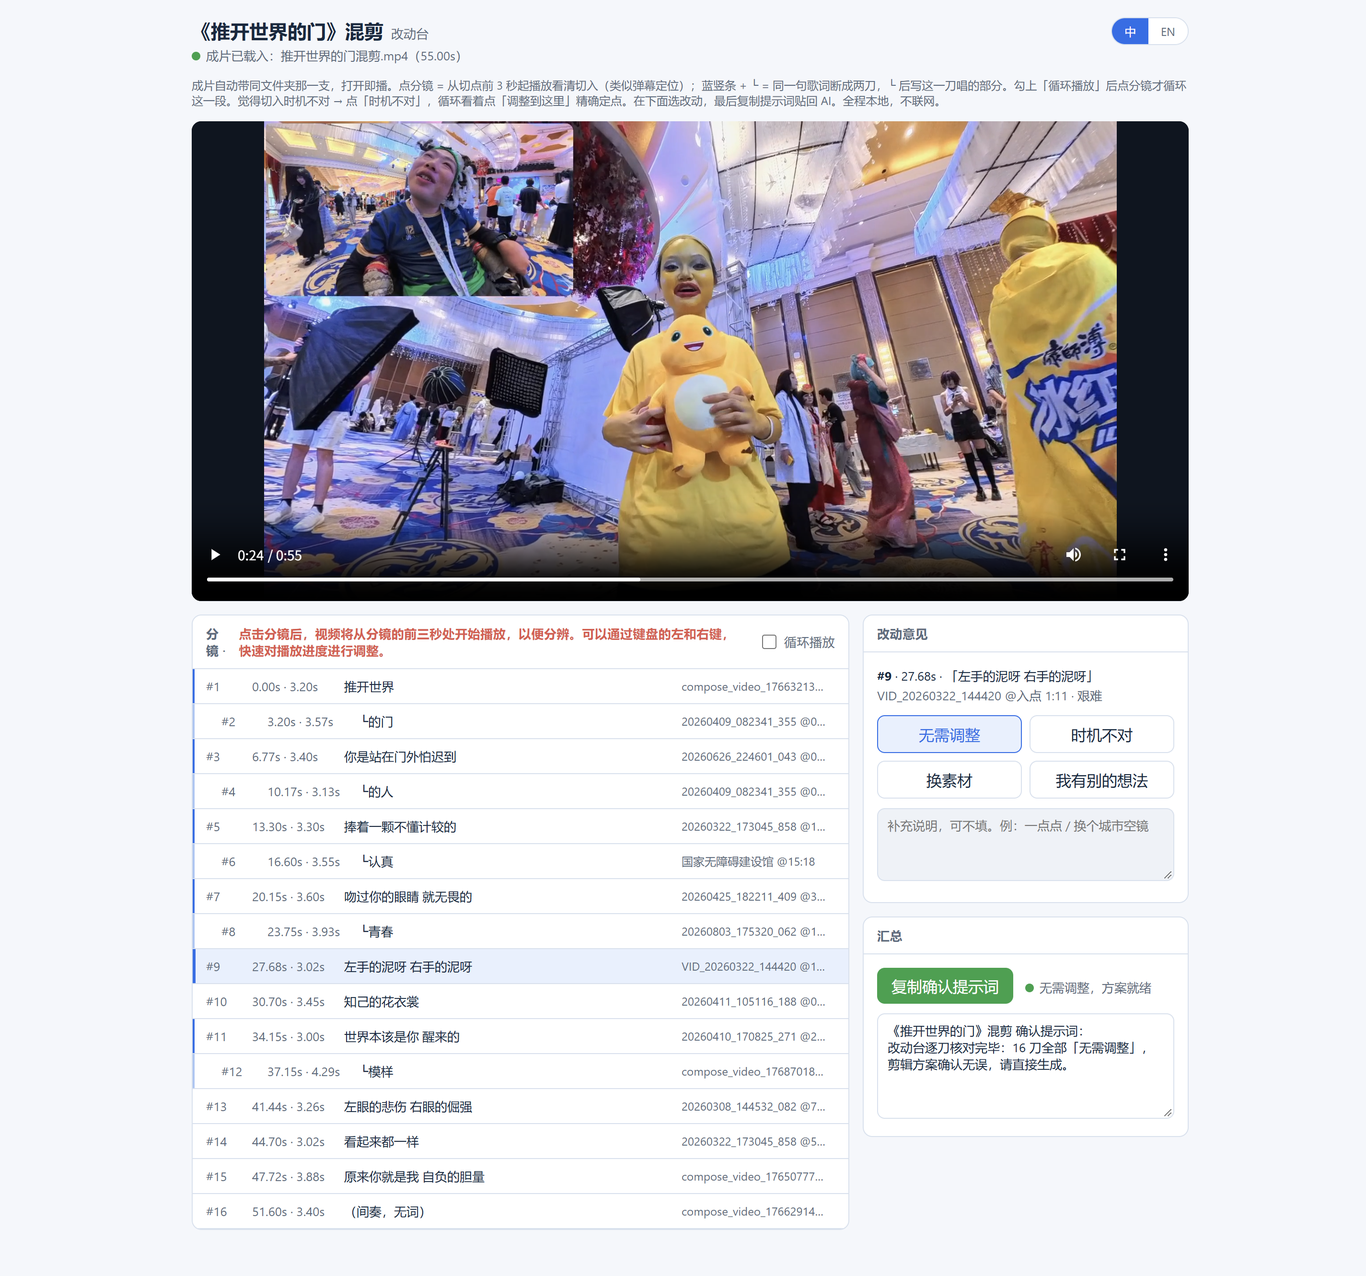
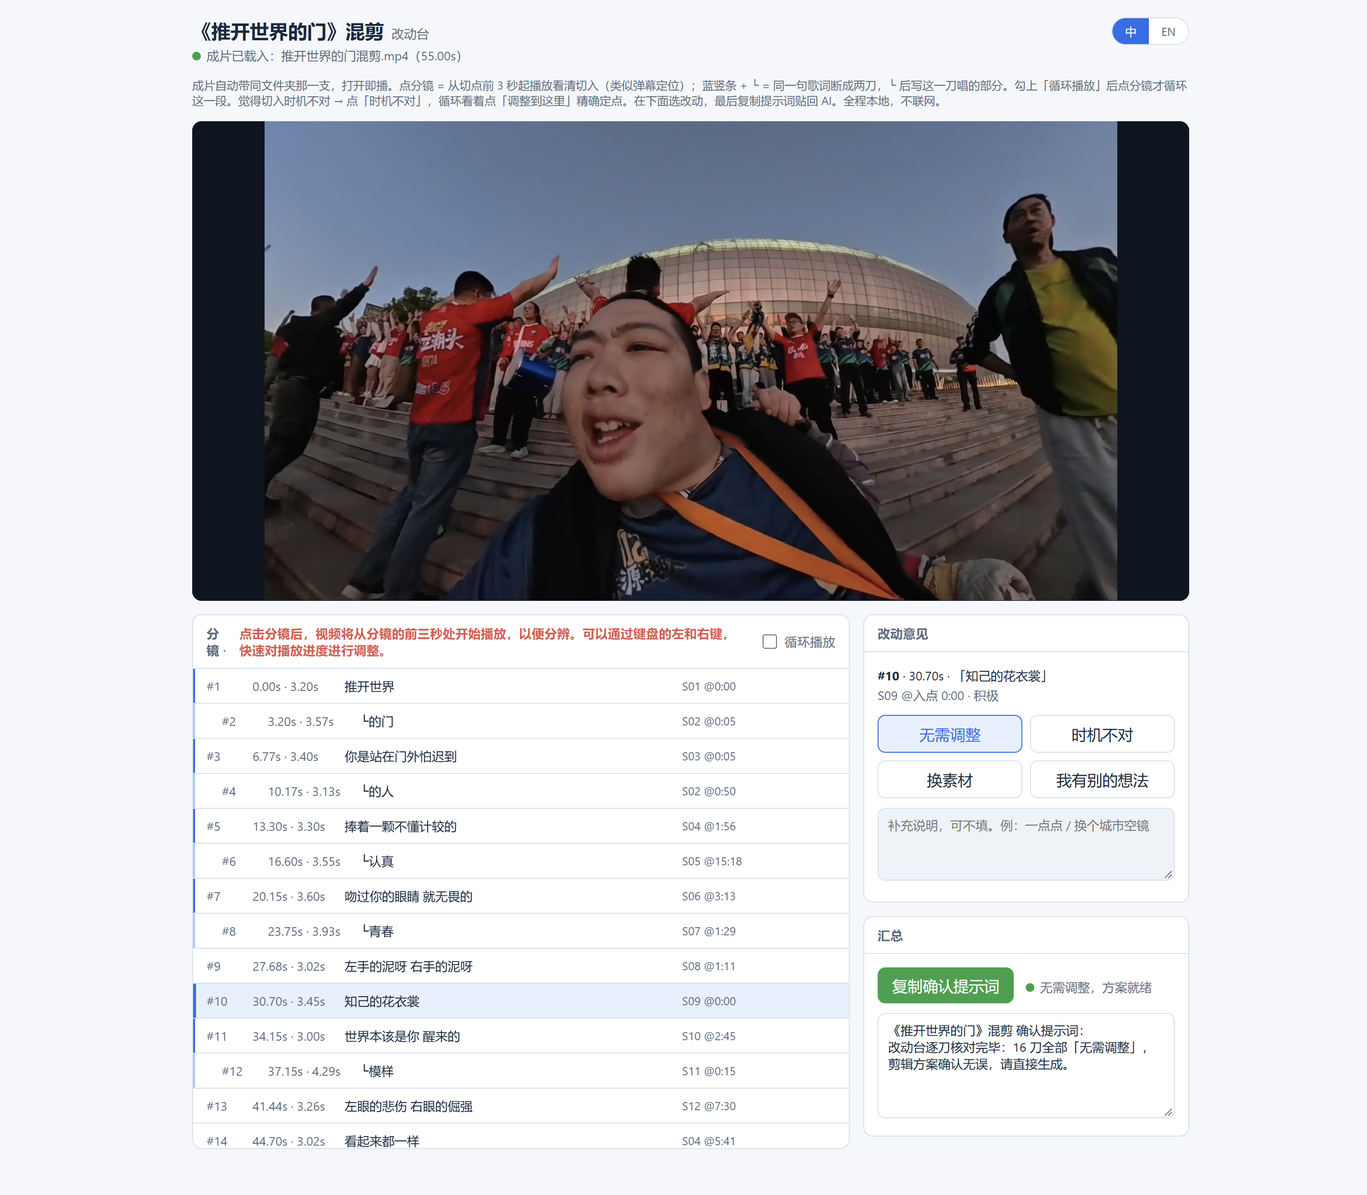
v2 review fixes: alias footage, real check_cut numbers, neutral wording, five-piece delivery, credits

diff --git a/skills/lyric-onset-montage/scripts/cut_switch_probe.py b/skills/lyric-onset-montage/scripts/cut_switch_probe.py
@@ -12,10 +12,10 @@ import argparse
 import subprocess
 import sys
 
-import numpy as np
-
 
 def probe(ffmpeg, video, t, fps, win):
+    import numpy as np   # 延后导入：--help 不需要 numpy
+
     n = 2 * win + 1
     raw = subprocess.run(
         [ffmpeg, "-v", "error", "-ss", f"{t - win / fps:.4f}", "-i", video,
@@ -32,6 +32,11 @@ def probe(ffmpeg, video, t, fps, win):
 
 
 def main():
+    try:
+        import numpy  # noqa: F401
+    except ImportError:
+        sys.exit("缺 numpy：pip install numpy（或 uv run --with numpy python cut_switch_probe.py ...）")
+
     ap = argparse.ArgumentParser(
         description=__doc__, formatter_class=argparse.RawDescriptionHelpFormatter)
     ap.add_argument("--video", required=True)

diff --git a/showcase/_tools/render_cutproof.py b/showcase/_tools/render_cutproof.py
@@ -13,7 +13,7 @@ WAVE="#8fc3e8"; GRIDC="#4e5763"; RED="#f2403a"; FOOT="#5f6873"
 X0,X1 = 48,1552
 
 def F(sz,bold=False):
-    cands = [r"C:\Windows\Fonts\msyhbd.ttc" if bold else r"C:\Windows\Fonts\msyh.ttc",
+    cands = [os.path.join(os.environ.get("WINDIR", ""), "Fonts", "msyhbd.ttc" if bold else "msyh.ttc"),
              "/System/Library/Fonts/PingFang.ttc",
              "/usr/share/fonts/truetype/dejavu/DejaVuSans-Bold.ttf" if bold else "/usr/share/fonts/truetype/dejavu/DejaVuSans.ttf"]
     for f in cands:

diff --git a/showcase/_tools/render_jiaoao_bilingual.py b/showcase/_tools/render_jiaoao_bilingual.py
@@ -34,7 +34,7 @@ WHITE = (226, 232, 240)
 
 
 def font(size, bold=False):
-    for p in (r"C:\Windows\Fonts\msyhbd.ttc" if bold else r"C:\Windows\Fonts\msyh.ttc",
+    for p in (os.path.join(os.environ.get("WINDIR", ""), "Fonts", "msyhbd.ttc" if bold else "msyh.ttc"),
               "/System/Library/Fonts/PingFang.ttc",
               "/usr/share/fonts/truetype/dejavu/DejaVuSans-Bold.ttf" if bold else
               "/usr/share/fonts/truetype/dejavu/DejaVuSans.ttf"):

diff --git a/showcase/_tools/render_legend.py b/showcase/_tools/render_legend.py
@@ -34,7 +34,7 @@ PANELS = [
 
 
 def font(size, bold=False):
-    for p in (r"C:\Windows\Fonts\msyhbd.ttc" if bold else r"C:\Windows\Fonts\msyh.ttc",
+    for p in (os.path.join(os.environ.get("WINDIR", ""), "Fonts", "msyhbd.ttc" if bold else "msyh.ttc"),
               "/System/Library/Fonts/PingFang.ttc",
               "/usr/share/fonts/truetype/dejavu/DejaVuSans-Bold.ttf" if bold else
               "/usr/share/fonts/truetype/dejavu/DejaVuSans.ttf"):

diff --git a/showcase/_tools/render_sequence.py b/showcase/_tools/render_sequence.py
@@ -27,7 +27,7 @@ FRAMES = [
 
 
 def font(size, bold=False):
-    for p in (r"C:\Windows\Fonts\msyhbd.ttc" if bold else r"C:\Windows\Fonts\msyh.ttc",
+    for p in (os.path.join(os.environ.get("WINDIR", ""), "Fonts", "msyhbd.ttc" if bold else "msyh.ttc"),
               "/System/Library/Fonts/PingFang.ttc",
               "/usr/share/fonts/truetype/dejavu/DejaVuSans-Bold.ttf" if bold else
               "/usr/share/fonts/truetype/dejavu/DejaVuSans.ttf"):

diff --git a/skills/lyric-onset-montage/templates/build_changeboard.py b/skills/lyric-onset-montage/templates/build_changeboard.py
@@ -99,7 +99,7 @@ def detect_video(out_dir: Path, explicit, folder_name: str) -> str:
 
 
 HTML = r"""<!doctype html>
-<html lang="zh-CN">
+<html lang="__LANG__">
 <head>
 <meta charset="utf-8">
 <meta name="viewport" content="width=device-width,initial-scale=1">

diff --git a/showcase/推开世界的门-55s-v2/自检报告.md b/showcase/推开世界的门-55s-v2/自检报告.md
@@ -4,12 +4,12 @@
 原曲：杨乃文《推开世界的门》录音棚版（录音棚音轨，未做二次流媒体转码）
 素材：全部取自使用者本地素材库，镜头位置按已记录的黄金窗口，原片未改动
 
-## 编号说明（重要）
+## 编号说明
 
-- **镜头表.md**：从 `#1` 编到 `#16`，`#1` = 0.00s
-- **分镜首帧.jpg**：图注从 `#00` 编到 `#15`，`#00` = 0.00s，**比镜头表小 1**
+- **镜头表.md**：`#1` 编到 `#16`，`#1` = 0.00s
+- **分镜首帧.jpg**：图注 `#01` 编到 `#16`，与镜头表**同号**
 
-口头说的刀号按“首帧图图注”理解（已当面确认“第八刀 = 蹲地换轮子 27.00s”）。两种编号在本报告里都标了。
+两张表同号，报号直接对应。早期版本曾出现图注比表号小 1 的情况，已在本版修正。
 
 ## 一、剪辑区间
 
@@ -27,11 +27,14 @@
 ```
 帧数核对：期望 1650 实测 1650 差 +0   ✓
 末尾 0.1s 电平：-57.8 dBFS           ✓ (< -45dB)
-A 切点−字头（谱通量峰）：中位 +2ms ｜ 绝对中位 35ms
-A 切点−字头（RMS 上升起点）：中位 -17ms ｜ 绝对中位 107ms
-B 按鼓点网格切：中位 +214ms ｜ 绝对中位 214ms
-曲速 70.0 BPM ｜ 格距 0.857s
+字头刀数 n=15 ｜ 检出起音点 155 个
+A 切点−字头（RMS 上升起点）：中位 +33ms ｜ 绝对中位 81ms ｜ 最大 282ms
+A 切点−字头（谱通量峰，对照）：中位 +24ms ｜ 绝对中位 66ms ｜ 最大 186ms
+B 网格−字头：中位 +157ms ｜ 绝对中位 220ms ｜ 最大 376ms
+曲速 70.0 BPM ｜ 格距 0.857s ｜ 半拍 429ms ｜ 相位集中度 0.60
 ```
+
+> **两个口径别混算**：本节 A/B 用 `check_cut.py` 的检测器量（n=15，本版成片重跑）；第三节逐刀表的「字头偏差」是人工标注 / 人耳收口口径。两者不同源，别把 33ms 和 +494ms 当成同一把尺子的两个结果。
 
 ## 三、逐刀（第四版）
 
@@ -65,13 +68,13 @@ B 按鼓点网格切：中位 +214ms ｜ 绝对中位 214ms
 
 ## 五、这一版改了什么
 
-| 刀（镜头表 / 图上） | 画面 | 原来 | 现在 | 你的话 |
+| 刀（镜头表 / 图上） | 画面 | 原来 | 现在 | 反馈 |
 |---|---|---|---|---|
 | #5 / #04 | 检修轮椅 | 13.05 | 13.30 | 早 |
 | #7 / #06 | 呐喊→大笑 | 19.90 | 20.15 | 早 |
-| #9 / #08 | 换轮椅后轮 | 26.75 | 27.15 | 太早（你确认的那刀） |
+| #9 / #08 | 换轮椅后轮 | 26.75 | 27.15 | 太早（使用者确认的那刀） |
 | #10 / #09 | 花衣裳 | 30.30 | 30.70 | 有点早 |
-| #13 / #12 | 破损路面 | 40.40 | 40.80 | 早（先+0.30，你说还早一点，再+0.10） |
+| #13 / #12 | 地面接缝 | 40.40 | 40.80 | 早（先 +0.30，复听后还早一点，再 +0.10） |
 | #14 / #13 | 盲道推轮椅 | 44.05 | 44.70 | 也早 |
 | 竖版三刀 | #5 #9 #14 | 亮度 −0.45（压成纯黑） | −0.10 | 没有底板模糊 |
 
@@ -79,14 +82,14 @@ B 按鼓点网格切：中位 +214ms ｜ 绝对中位 214ms
 
 ## 六、素材替换（第 13 刀 / 图上 #12）
 
-- 原素材是「建宁西路隐患.mp4」里的破损路面与井盖，属于市政问题记录。考虑到成片可能公开发布，这类画面容易被当成对某地治理的指认，换成中性画面更稳妥。
-- 替换素材：`20260308_144532_082.mp4` 入点 7:30，看台环廊望向球场——灰调水泥廊、红色座椅、绿茵场，无文字横幅、无可读电话、无近景人脸。
-- 选材排除：历史纪念地（卢沟桥一组不用）、市政隐患/破损设施、含可读电话号码的牌面、第三人近景正脸。
+- 原素材里有一段地面接缝与高差，按使用者要求不选，换成中性画面。
+- 替换素材：`S12` 入点 7:30，看台环廊望向球场——灰调水泥廊、红色座椅、绿茵场，无文字横幅、无可读电话、无近景人脸。
+- 选材排除：历史纪念地（一组不用）、地面接缝与高差、含可读电话号码的牌面、第三人近景正脸。
 - 时长与切点不变（40.80 / 3.90s），只换画面。
 
 ## 七、第五次改动（漫展那一刀）
 
-- 原因：你说漫展两个画面切太快。查了素材，那不是一个镜头剪成两刀，而是同一条素材 87s 起先是“一群人低头看设备”的特写，88s 才转到奶龙。放在 3.8 秒里，看起来就像 1 秒内换了两个画面。
+- 原因：使用者反馈漫展两个画面切太快。查了素材，那不是一个镜头剪成两刀，而是同一条素材 87s 起先是“一群人低头看设备”的特写，88s 才转到奶龙。放在 3.8 秒里，看起来就像 1 秒内换了两个画面。
 - 处理：入点从 1:27 改成 **1:29**，只留奶龙那段，人群特写整段丢掉，时长仍是 3.80s（用奶龙把时间填满，不缩短这一刀）。
 - 影响：只有第 8 刀变了，切点 23.35 没动，其余 15 刀没动。
 
@@ -102,7 +105,7 @@ B 按鼓点网格切：中位 +214ms ｜ 绝对中位 214ms
 | 15 | 47.30 | 47.72 | +0.42 | 1432（47.73s，+0.01） |
 
 - 只动 4 个边界：被点名的 4 刀重切，相邻刀（2/7/12/14）跟着伸缩，素材入点与画面内容未动；其余 8 刀切片原样复用，合曲后 1650 帧 / 55.00s / 音频 55.02s。
-- 字头偏差：这 4 刀是按使用者耳朵定点的，不再守「字头对齐 ±40ms」（逐刀表已同步：#3 +494ms、#13 +343ms*、#15 +517ms；#8 是句内第二刀，仍按断句拖腔、不算字头偏差）——机器字头对齐是默认值，人耳收口优先。
+- 字头偏差：这 4 刀是按使用者耳朵定点的，不再按固定容差判定（逐刀表已同步：#3 +494ms、#13 +343ms*、#15 +517ms；#8 是句内第二刀，仍按断句拖腔、不算字头偏差）——机器字头对齐是默认值，人耳收口优先。
 
 ### 同日第二批（使用者再定点 3 刀）
 

diff --git a/showcase/推开世界的门-55s-v2/镜头表.md b/showcase/推开世界的门-55s-v2/镜头表.md
@@ -2,22 +2,22 @@
 
 | # | 切点 | 时长 | 歌词 | 情绪 | 素材 | 入点 | 为什么选它 |
 |---|---|---|---|---|---|---|---|
-| 1 | 0.00 | 3.20 | 推开世界 | 中性 | compose_video_1766321370442 | 0:00 | 棚下车道 POV 驶出，第一人称“出门”，正对“推开门” |
-| 2 | 3.20 | 3.57 | └的门 | 中性 | 20260409_082341_355 | 0:05 | 高铁站候车大厅全景，世界一下子打开 |
-| 3 | 6.77 | 3.40 | 你是站在门外怕迟到 | 中性 | 20260626_224601_043 | 0:05 | 站台抵达、和谐号在侧，站在车门外 |
-| 4 | 10.17 | 3.13 | └的人 | 中性 | 20260409_082341_355 | 0:50 | 检票口候车区，赶车的人流 |
-| 5 | 13.30 | 3.30 | 捧着一颗不懂计较的 | 积极 | 20260322_173045_858 | 1:56 | 两人俯身检修轮椅，认真做事的特写（竖屏垫底） |
-| 6 | 16.60 | 3.55 | └认真 | 积极 | 国家无障碍建设馆 | 15:18 | 复兴号无障碍车厢展景，门头金字，第二扇“门” |
-| 7 | 20.15 | 3.60 | 吻过你的眼睛 就无畏的 | 积极 | 20260425_182211_409 | 3:13 | 轮椅球迷仰头呐喊转大笑，情绪最高 |
-| 8 | 23.75 | 3.93 | └青春 | 积极 | 20260803_175320_062 | 1:29 | 漫展奶龙互动：只保留奶龙这段，同一素材前面 1 秒的人群特写不用（那条素材内部会换画面，保留两段会像一刀切太快的两刀） |
-| 9 | 27.68 | 3.02 | 左手的泥呀 右手的泥呀 | 艰难 | VID_20260322_144420 | 1:11 | 蹲地换轮椅后轮的双手与工具，正对“泥”（竖屏垫底） |
-| 10 | 30.70 | 3.45 | 知己的花衣裳 | 积极 | 20260411_105116_188 | 0:00 | 民族服饰与人群舞动，最“花”的画面 |
-| 11 | 34.15 | 3.00 | 世界本该是你 醒来的 | 中性 | 20260410_170825_271 | 2:45 | 西湖柳岸湖面，清晨天光 |
-| 12 | 37.15 | 4.29 | └模样 | 中性 | compose_video_1768701877487 | 0:15 | 广场与白色尖顶建筑大空镜，世界很大的感觉 |
-| 13 | 41.44 | 3.26 | 左眼的悲伤 右眼的倔强 | 艰难 | 20260308_144532_082 | 7:30 | 看台环廊望向球场：灰调水泥廊、红座、绿茵，无文字无近景人脸；原本的市政隐患素材已按公开发布要求替换 |
-| 14 | 44.70 | 3.02 | 看起来都一样 | 艰难→积极 | 20260322_173045_858 | 5:41 | 盲道砖道上被推着往前走，倔强的地方（竖屏垫底） |
-| 15 | 47.72 | 3.88 | 原来你就是我 自负的胆量 | 积极 | compose_video_1765077770909 | 0:23.9 | 白盔下的笑脸与挥拳，收在“胆量”上 |
-| 16 | 51.60 | 3.40 | （间奏，无词） | 中性 | compose_video_1766291459569 | 0:05 | 夜场灯光秀蓝紫光，随淡出收尾 |
+| 1 | 0.00 | 3.20 | 推开世界 | 中性 | S01 | 0:00 | 棚下车道 POV 驶出，第一人称“出门”，正对“推开门” |
+| 2 | 3.20 | 3.57 | └的门 | 中性 | S02 | 0:05 | 高铁站候车大厅全景，世界一下子打开 |
+| 3 | 6.77 | 3.40 | 你是站在门外怕迟到 | 中性 | S03 | 0:05 | 站台抵达、和谐号在侧，站在车门外 |
+| 4 | 10.17 | 3.13 | └的人 | 中性 | S02 | 0:50 | 检票口候车区，赶车的人流 |
+| 5 | 13.30 | 3.30 | 捧着一颗不懂计较的 | 积极 | S04 | 1:56 | 两人俯身检修轮椅，认真做事的特写（竖屏垫底） |
+| 6 | 16.60 | 3.55 | └认真 | 积极 | S05 | 15:18 | 复兴号无障碍车厢展景，门头金字，第二扇“门” |
+| 7 | 20.15 | 3.60 | 吻过你的眼睛 就无畏的 | 积极 | S06 | 3:13 | 轮椅球迷仰头呐喊转大笑，情绪最高 |
+| 8 | 23.75 | 3.93 | └青春 | 积极 | S07 | 1:29 | 漫展奶龙互动：只保留奶龙这段，同一素材前面 1 秒的人群特写不用（那条素材内部会换画面，保留两段会像一刀切太快的两刀） |
+| 9 | 27.68 | 3.02 | 左手的泥呀 右手的泥呀 | 艰难 | S08 | 1:11 | 蹲地换轮椅后轮的双手与工具，正对“泥”（竖屏垫底） |
+| 10 | 30.70 | 3.45 | 知己的花衣裳 | 积极 | S09 | 0:00 | 民族服饰与人群舞动，最“花”的画面 |
+| 11 | 34.15 | 3.00 | 世界本该是你 醒来的 | 中性 | S10 | 2:45 | 西湖柳岸湖面，清晨天光 |
+| 12 | 37.15 | 4.29 | └模样 | 中性 | S11 | 0:15 | 广场与白色尖顶建筑大空镜，世界很大的感觉 |
+| 13 | 41.44 | 3.26 | 左眼的悲伤 右眼的倔强 | 艰难 | S12 | 7:30 | 看台环廊望向球场：灰调水泥廊、红座、绿茵，无文字无近景人脸；原本那组地面画面已按选材排除项换掉 |
+| 14 | 44.70 | 3.02 | 看起来都一样 | 艰难→积极 | S04 | 5:41 | 盲道砖道上被推着往前走，倔强的地方（竖屏垫底） |
+| 15 | 47.72 | 3.88 | 原来你就是我 自负的胆量 | 积极 | S13 | 0:23.9 | 白盔下的笑脸与挥拳，收在“胆量”上 |
+| 16 | 51.60 | 3.40 | （间奏，无词） | 中性 | S14 | 0:05 | 夜场灯光秀蓝紫光，随淡出收尾 |
 
 ## 说明
 
@@ -25,4 +25,4 @@
 - 结尾淡出：52.0s 起淡 3.0s（原曲 111.8s–114.8s），落在“自负的胆量”唱完之后的器乐过门里，下一段歌词在 127.9s，未被截断。
 - 末尾 0.1 秒 RMS 实测 −57.8 dB（< −45 dB），听不到残字。
 - 三个竖屏镜头（#5 #9 #14）按放大裁切 + 模糊垫底处理，不留黑边。
-- 素材全部来自 `E:\Vlog\_索引\` 记录的黄金窗口，未改动原片。
+- 素材取自使用者本地素材库，按已记录的黄金窗口使用，未改动原片。

diff --git a/showcase/推开世界的门-55s-v2/README.md b/showcase/推开世界的门-55s-v2/README.md
@@ -7,7 +7,7 @@
 
 ## 一句话
 
-从一首 281 秒的歌里只取 55 秒（原曲 59.80 → 114.80s），16 刀，每刀 ≥ 2.6 秒；
+从一首 281 秒的歌里只取 55 秒（原曲 59.80 → 114.80s），16 刀，每刀 ≥ 3.0 秒；
 7 刀经改动台「时机不对」弹窗人耳定点后重切，实测换镜帧全部命中（偏差 ≤ 0.02s），总帧数 1650 不变。
 **人耳定点的刀以耳朵为准**，机器口径只作对照（A 切点−谱通量峰 绝对中位 81ms / B 切点−网格 绝对中位 220ms，15 个字头刀）。
 
@@ -16,7 +16,7 @@
 | 项    | 值                                                                                                                                                           |
 | ---- | ----------------------------------------------------------------------------------------------------------------------------------------------------------- |
 | 成片   | 1920×1080 / 30fps / **55.000s / 1650 帧** / H.264 + AAC 192k 48kHz                                                                                           |
-| 刀数   | 16 刀（最短 2.60s，最长 4.30s）                                                                                                                                     |
+| 刀数   | 16 刀（最短 3.00s，最长 4.29s）                                                                                                                                     |
 | 音频区间 | 原曲 59.80 → 114.80s（成片 0s = 原曲 59.80s）                                                                                                                       |
 | 淡出   | 52.0s 起淡 3.0s，落在「自负的胆量」唱完后的器乐过门里                                                                                                                            |
 | 末尾电平 | 末 0.1 秒 **−57.8 dBFS**                                                                                                                                      |
@@ -28,7 +28,7 @@
 
 | 旧版没有的东西                                  | 为什么值钱                                                        |
 | ----------------------------------------- | ------------------------------------------------------------ |
-| **改动台「时机不对」定点**：循环播「切点前 3 秒～刀后 3 秒」，看到该切的位置点「调整到这里」，目标切点直接写进提示词 | 使用者不用报「早了/晚了」试数字，耳朵说了算；两批 7 刀全部一次定点成功 |
+| **改动台「时机不对」定点**：循环播「切点前 3 秒～刀后 3 秒」，看到该切的位置点「调整到这里」，目标切点直接写进提示词 | 使用者不用报「早了/晚了」试数字，耳朵说了算；两批 7 刀定点，其中 1 刀二次微调 |
 | **最小改动重切**：只重切被点名的刀，相邻刀跟着伸缩，素材入点与画面不动 | 4 刀定点实际只动 8 个边界切片，其余复用；总帧数不变 |
 | **帧级实测对账**：`scripts/cut_switch_probe.py` 帧差扫描换镜帧 | 7 刀换镜帧实测与规格偏差 ≤ 0.02s，重切不再是「应该没问题」 |
 | **断句依据不许猜**：半句格子可回溯到生产记录（spec.json + 词级转写 + 能量峰）| 旧版半句按语义猜错两三个字，改动台全对不上；证据链断了先查生产目录 |
@@ -50,7 +50,7 @@
 1. **口头/对话**：照旧，「第 X 秒」「几分几秒」直接说。
 2. **`改动台.html`**（五件套之一，单文件、不联网）：点分镜从切点前 3 秒播起；键盘 ← → 快进快退 2 秒、空格暂停；列表 LRC 式自动跟随播放位置；「时机不对」弹窗定点；四个状态按钮（无需调整 / 时机不对 / 换素材 / 我有别的想法）；最后两态按钮复制提示词贴回 AI。**双语界面**：右上角「中 / EN」开关随时切换，提示词文案随界面语言。
 
-**中英界面对照**（同一刀 #9、同框同拍；初始语言跟使用者提示词的语言走，右上角开关随时手动切换兜底）：
+**中英界面对照**（两边同选同一刀、同框同拍；初始语言跟使用者提示词的语言走，右上角开关随时手动切换兜底）：
 
 ![改动台中英界面对照：左中文界面、右 English UI](改动台-双语对照.png)
 

diff --git a/showcase/推开世界的门-55s-v2/交付形态.md b/showcase/推开世界的门-55s-v2/交付形态.md
@@ -7,11 +7,11 @@
 
 | 文件         | 作用                        | 受众      |
 | ---------- | ------------------------- | ------- |
-| `成片.mp4`   | 唯一成品                      | 你       |
-| `分镜首帧.jpg` | 一格一镜，一眼扫完，用来点名哪刀不对        | 你       |
-| `镜头表.md`   | 每刀：切点 / 时长 / 歌词 / 素材 / 入点 | 我 + 你核对 |
-| `自检报告.md`  | 机器体检数字 + 改动台账 + 还能改什么     | 你       |
-| `改动台.html` | 逐刀看片提改动，一键复制提示词贴回 AI      | 你       |
+| `成片.mp4`   | 唯一成品 | 使用者 |
+| `分镜首帧.jpg` | 一格一镜，一眼扫完，用来点名哪刀不对 | 使用者 |
+| `镜头表.md`   | 每刀：切点 / 时长 / 歌词 / 素材 / 入点 | 作者 + 使用者核对 |
+| `自检报告.md`  | 机器体检数字 + 改动台账 + 还能改什么 | 使用者 |
+| `改动台.html` | 逐刀看片提改动，一键复制提示词贴回 AI | 使用者 |
 
 **不进交付的东西**：包络尺子图、频谱图、中间切片、切片日志。这类图只用来核对，看的人只会觉得烦。
 
@@ -65,7 +65,7 @@ split=2[bg][fg];
 - **15–110** = 模糊底在，且不抢主体
 - **≈0** = 已被压成黑边，回去改参数
 
-## 六、可微调清单（你一句话，我改一处）
+## 六、可微调清单（一句话，改一处）
 
 | 用户会怎么说        | 改什么                             | 波及           |
 | ------------- | ------------------------------- | ------------ |

diff --git a/README.md b/README.md
@@ -4,9 +4,9 @@
 
 **Cut footage to the sung word — not to the beat, and not to the subtitle.**
 
-A skill for AI agents that turns a song plus a folder of raw footage into a montage whose every cut lands on the first consonant of a lyric line. It measures the onset from the audio, keeps shot selection and timing as two separate decisions, and hands back evidence you can check instead of adjectives you have to trust.
+A skill for AI agents that turns a song plus a folder of raw footage into a montage whose every cut lands on the measured onset of a sung word. It measures the onset from the audio, keeps shot selection and timing as two separate decisions, and hands back evidence you can check instead of adjectives you have to trust.
 
-## Install
+## Quick start
 
 ```bash
 npx skills add qjzzsky/lyric-onset-montage
@@ -177,7 +177,7 @@ Three phrasings cover almost every revision: swap the footage, move the cut, or 
 
 ## Refine it in the browser
 
-![Bilingual change board: Chinese UI on the left, English UI on the right, the same cut #9 selected in both](showcase/推开世界的门-55s-v2/改动台-双语对照.png)
+![Bilingual change board: Chinese UI on the left, English UI on the right, the same cut selected in both](showcase/推开世界的门-55s-v2/改动台-双语对照.png)
 
 `templates/build_changeboard.py` reads the shot table and writes `改动台.html` into the same folder as the final video. One file, no server, no network, no access to the footage library.
 
